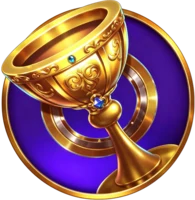
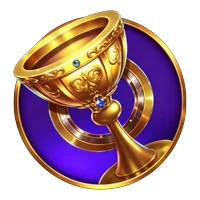
fix(olympus): unify symbols onto a square canvas, add cell gaps
- assets/symbols/*.webp regenerated: each symbol cropped to content
  bbox, scaled to max side 180px, centered on 200x200 transparent
  canvas. This normalizes the visual footprint regardless of the
  source aspect ratio.
- olympus.css: symbol height 92% -> 78% of cell, so rows show visible
  spacing and each row aligns top and bottom.
- cache key olympus.css?v=6

diff --git a/src/css/olympus.css b/src/css/olympus.css
@@ -1,4 +1,4 @@
-/* Apex Olympus - symbol grid: equal visual size, vertically aligned */
+/* Apex Olympus - symbol grid, unified canvas, roomier gaps */
 
 html, body {
   margin: 0; padding: 0; background: #000; color: #fff;
@@ -6,73 +6,47 @@ html, body {
   font-family: Manrope, system-ui, -apple-system, PingFang SC, sans-serif;
   -webkit-tap-highlight-color: transparent;
 }
-
 .ol-body {
-  width: 100vw;
-  height: 100vh;
-  height: 100dvh;
-  overflow: hidden;
-  background: #000;
+  width: 100vw; height: 100vh; height: 100dvh;
+  overflow: hidden; background: #000;
 }
-
 .ol-stage {
   position: relative;
-  width: 100vw;
-  height: 100vh;
-  height: 100dvh;
-  overflow: hidden;
-  background: #000;
+  width: 100vw; height: 100vh; height: 100dvh;
+  overflow: hidden; background: #000;
 }
-
 .ol-art {
-  display: block;
-  position: absolute;
-  top: 0; left: 0;
-  width: 100%;
-  height: 100%;
-  -webkit-user-drag: none;
-  user-select: none;
-  pointer-events: none;
+  display: block; position: absolute;
+  top: 0; left: 0; width: 100%; height: 100%;
+  -webkit-user-drag: none; user-select: none; pointer-events: none;
 }
-
 .ol-grid {
-  position: absolute;
-  inset: 0;
-  pointer-events: none;
-  z-index: 2;
+  position: absolute; inset: 0;
+  pointer-events: none; z-index: 2;
 }
 .ol-grid-inner {
   position: absolute;
-  left: 4.4%;
-  right: 3.3%;
-  top: 25.2%;
-  bottom: 51.9%;
+  left: 4.4%; right: 3.3%; top: 25.2%; bottom: 51.9%;
   display: grid;
   grid-template-columns: repeat(6, 1fr);
   grid-template-rows: repeat(5, 1fr);
-  gap: 0;
-  box-sizing: border-box;
+  gap: 0; box-sizing: border-box;
 }
 .ol-cell {
-  display: flex;
-  align-items: center;
-  justify-content: center;
-  min-width: 0;
-  min-height: 0;
+  display: flex; align-items: center; justify-content: center;
+  min-width: 0; min-height: 0;
   box-sizing: border-box;
 }
-/* Symbols: fixed HEIGHT (visual alignment), width follows original ratio.
-   The board cells are wide (1.66:1), so anchoring on height keeps every
-   symbol the same visual size across a row. */
+/* symbols: unified 200x200 canvas, anchored at 78% of cell height.
+   The board is 6 cols x 5 rows over ~500px of image height, so
+   a cell is ~100px tall by ~166px wide; 78% leaves visible gaps. */
 .ol-cell img {
   display: block;
-  height: 92%;
+  height: 78%;
   width: auto;
   max-width: 100%;
   object-fit: contain;
   object-position: center;
-  -webkit-user-drag: none;
-  user-select: none;
-  pointer-events: none;
+  -webkit-user-drag: none; user-select: none; pointer-events: none;
   filter: drop-shadow(0 1px 2px rgba(0,0,0,.35));
 }

diff --git a/olympus.html b/olympus.html
@@ -7,7 +7,7 @@
 <meta name="robots" content="noindex">
 <title>奥林匹斯</title>
 <link rel="icon" type="image/svg+xml" href="/favicon.svg">
-<link rel="stylesheet" href="/src/css/olympus.css?v=5">
+<link rel="stylesheet" href="/src/css/olympus.css?v=6">
 </head>
 <body class="ol-body">
 <div class="ol-stage">
